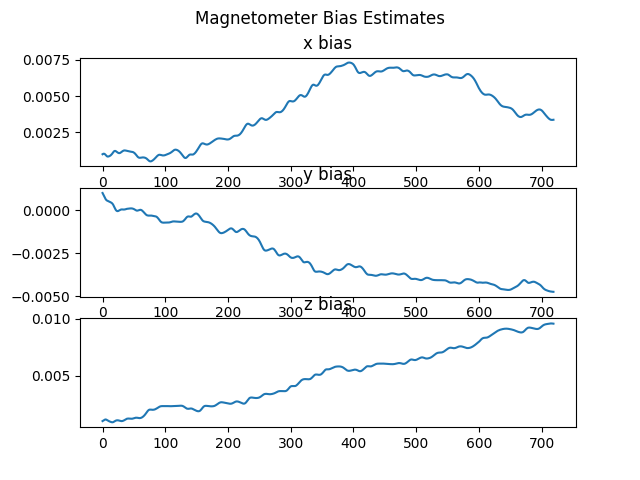
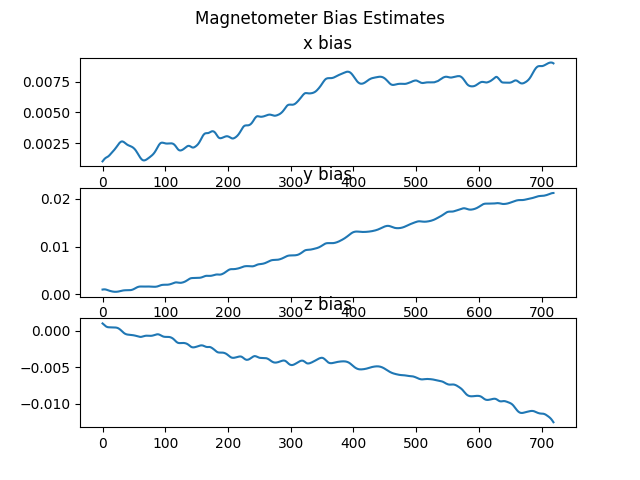
fixed bug in orbit task

diff --git a/flight/pygnc/tasks/orbit_estimator.py b/flight/pygnc/tasks/orbit_estimator.py
@@ -2,6 +2,8 @@ import brahe
 import numpy as np
 import time
 
+#plotting 
+import matplotlib.pyplot as plt
 
 from ..common import data_parsing, transformations
 from ..configuration import orbit_estimator as oe_config
@@ -24,10 +26,9 @@ def update_orbit_ekf(orbit_ekf, gps_message, prev_epoch=None):
         orbit_ekf.initialize_state(state_measurement_eci)
     else:
         #this was code before (negative)
-        dt = prev_epoch - measurement_epoch
+        #dt = prev_epoch - measurement_epoch
 
-
-        #dt = abs(prev_epoch - measurement_epoch)
+        dt = abs(prev_epoch - measurement_epoch)
 
         
         orbit_ekf.update(state_measurement_eci, dt)
@@ -41,6 +42,9 @@ def main(batch_gps_sensor_data_filepath):
     # instantiate orbit estimator
     orbit_ekf = OrbitEKF()
 
+    #save all the estimates
+    all_estimates = np.zeros((12, 144))
+
     # batch update orbit estimator
     batch_data = data_parsing.unpack_batch_sensor_gps_file_to_messages_iterable(
         batch_gps_sensor_data_filepath
@@ -52,6 +56,9 @@ def main(batch_gps_sensor_data_filepath):
         _, gps_message = bd
         
         prev_epoch = update_orbit_ekf(orbit_ekf, gps_message, prev_epoch)
+
+        all_estimates[:, packet_count] = orbit_ekf.x
+
         packet_count += 1
 
     print("Batch orbit estimation completed")
@@ -60,3 +67,37 @@ def main(batch_gps_sensor_data_filepath):
     print(f"\t{orbit_ekf.x}")
     print(f"Final std dev:")
     print(f"\t{np.diag(orbit_ekf.F)}")
+
+    ground_truth_states = np.loadtxt('/home/fausto/pygnc/scenario_generator/state_history.txt', delimiter=',')
+
+    #size of ground truth states is 36600x13
+    #need to down sample to every 25 seconds
+    #this is the time array 
+
+    t = np.linspace(0,ground_truth_states.shape[0], num=ground_truth_states.shape[0]) 
+
+    indices = np.arange(0,ground_truth_states.shape[0], step=250)
+
+    print("indices", indices)
+
+    print("size of gt states", ground_truth_states.shape)
+
+    print("size of indices: ", indices.shape)
+    #calculate residuals. need to fix some of the indexing to get the dimensions to match
+    #residuals = ground_truth_states - all_estimates
+
+    #Plotting the code for testing 
+    fig, axs = plt.subplots(3)
+    fig.suptitle('State Estimates')
+    axs[0].plot(all_estimates[0,:])
+    axs[0].plot(ground_truth_states[indices,0])
+    axs[0].set_title('x')
+    axs[1].plot(all_estimates[1,:])
+    axs[1].plot(ground_truth_states[indices,1])
+    axs[1].set_title('y')
+    axs[2].plot(all_estimates[2,:])
+    axs[2].plot(ground_truth_states[indices,2])
+    axs[2].set_title('z')
+
+    #save the plot as a png
+    fig.savefig('position_estimate.png')

diff --git a/flight/pygnc/tasks/attitude_estimator.py b/flight/pygnc/tasks/attitude_estimator.py
@@ -115,8 +115,8 @@ def main(batch_gps_sensor_data_filepath):
         #Ensure that you pass in the next measurement
         sensor_msg, _ = bd
 
-        for i in range(len(sensor_msg)-1):
-            sensor_msgs = sensor_msg[i+1]
+        for i in range(len(sensor_msg)):
+            sensor_msgs = sensor_msg[i]
             prev_epoch = update_orbit_mekf(orbit_mekf, sensor_msgs, prev_epoch)
 
             #save the state estimate
@@ -127,8 +127,6 @@ def main(batch_gps_sensor_data_filepath):
             print(f"\t{orbit_mekf.x}")
             print(f"std dev:")
             print(f"\t{np.diag(orbit_mekf.P)}")
-
-
 
         packet_count += 1
 
@@ -150,8 +148,7 @@ def main(batch_gps_sensor_data_filepath):
     print(f"Final std dev:")
     print(f"\t{np.diag(orbit_mekf.P)}")
 
-    print(all_estimates.shape)
-
+    #Plotting the code for testing 
     #plot the quaternion estimates as subplots
     fig, axs = plt.subplots(4)
     fig.suptitle('Quaternion Estimates')
@@ -190,6 +187,7 @@ def main(batch_gps_sensor_data_filepath):
     axs[2].plot(all_estimates[9,:])
     axs[2].set_title('z bias')
 
+
     #show the plot
     plt.show()
 
@@ -197,8 +195,3 @@ def main(batch_gps_sensor_data_filepath):
     fig.savefig('state_estimates.png')
     fig2.savefig('gyro_bias_estimates.png')
     fig3.savefig('magnetometer_bias_estimates.png')
-
-
-    
-
-

diff --git a/flight/pygnc_main.py b/flight/pygnc_main.py
@@ -20,12 +20,12 @@ def start_processes():
     processes = dict()
 
     #comment out the orbit estimator task
-
-    #orbit_estimator_p = Process(
+    #working. had to fix a bug with the dt.
+    # orbit_estimator_p = Process(
     #    target=orbit_estimator_task.main, args=(pygnc_config.batch_sensor_gps_filepath,)
-    #)
-    #orbit_estimator_p.start()
-    #processes["orbit_estimator"] = orbit_estimator_p
+    # )
+    # orbit_estimator_p.start()
+    # processes["orbit_estimator"] = orbit_estimator_p
 
     #add in the attitude estimator task
     attitude_estimator_p = Process(
@@ -33,6 +33,8 @@ def start_processes():
     )
     attitude_estimator_p.start()
     processes["attitude_estimator"] = attitude_estimator_p
+
+
 
     return processes
 
